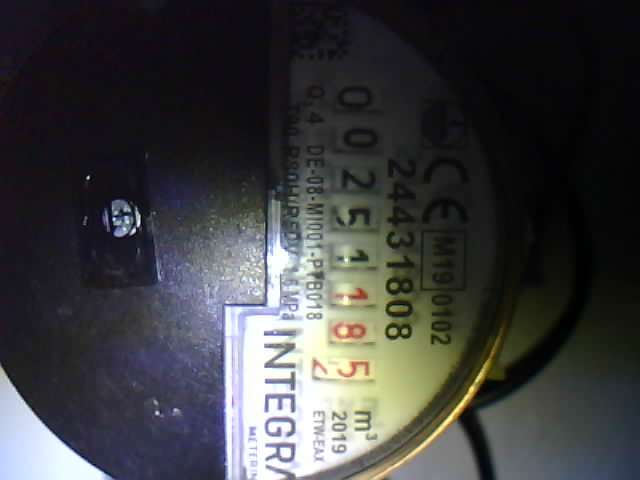
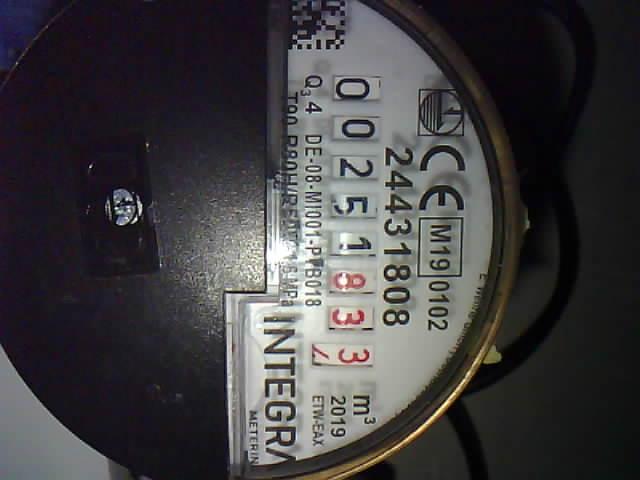
rotation working

diff --git a/components/meter_reader_tflite/meter_reader_tflite.cpp b/components/meter_reader_tflite/meter_reader_tflite.cpp
@@ -195,6 +195,16 @@ void MeterReaderTFLite::setup() {
          // camera/image_processor: 0=Float, 1=Uint8 (ImageProcessorInputType)
          int processor_input_type = (spec.input_type == 1) ? 0 : 1;
          
+         // [MOVED] Sync Rotation FIRST
+         if (esp32_camera_utils_) {
+              // Sync rotation from Utils (Centralized Configuration)
+              this->rotation_ = esp32_camera_utils_->get_rotation();
+              ESP_LOGI(TAG, "Synced rotation from esp32_camera_utils: %.1f", this->rotation_);
+              
+              // Pass rotation to coordinator BEFORE updating processor config
+              camera_coord_.set_rotation(this->rotation_);
+         }
+         
          camera_coord_.update_image_processor_config(
              spec.input_width, 
              spec.input_height, 
@@ -204,13 +214,10 @@ void MeterReaderTFLite::setup() {
              spec.input_order
          );
          
-         // Sync Esp32CameraUtils if present (for sensors)
-         if (esp32_camera_utils_) {
-              // Sync rotation from Utils (Centralized Configuration)
-              this->rotation_ = esp32_camera_utils_->get_rotation();
-              ESP_LOGI(TAG, "Synced rotation from esp32_camera_utils: %.1f", this->rotation_);
+
 
               // Ensure it knows current dimensions
+         if (esp32_camera_utils_) {
               esp32_camera_utils_->set_camera_image_format(
                   camera_coord_.get_width(),
                   camera_coord_.get_height(),
